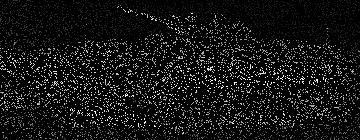
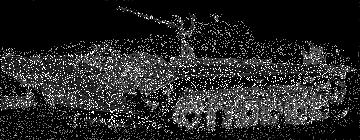
1

diff --git a/2lab/main.py b/2lab/main.py
@@ -67,7 +67,7 @@ def difference(first:Image, last:Image):
     for (x, y), pix in pixel_gen(res):
         new_pix = np.array(pix)
         new_pix -= np.array(last_pix[x, y])
-        draw.point((x, y), tuple(new_pix))
+        draw.point((x, y), tuple(np.absolute(new_pix)))
     return res
 
 

diff --git a/2lab/l1_spatial_smoothing.py b/2lab/l1_spatial_smoothing.py
@@ -25,6 +25,7 @@ def new_apply_func(pix_img, mask, point:Point_type):
 @print_durations
 def spatial_smoothing(image, draw):
     res = image.copy()
+    draw = ImageDraw.Draw(res)
     mask = [[1,1,1],
             [1,0,1],
             [1,1,1]]
